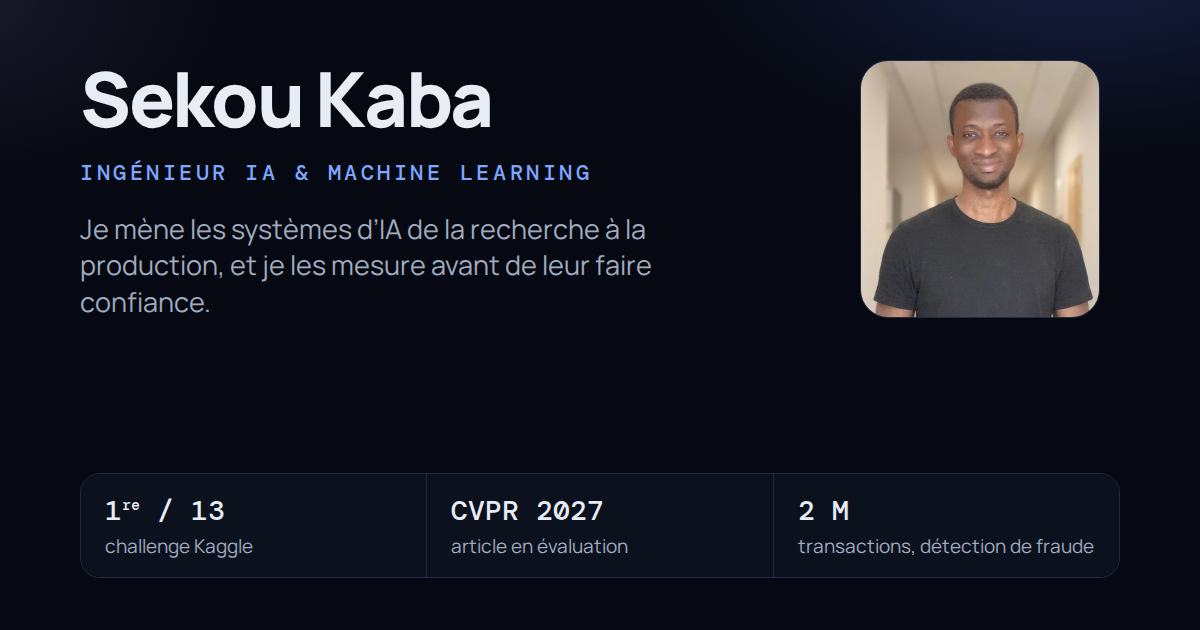
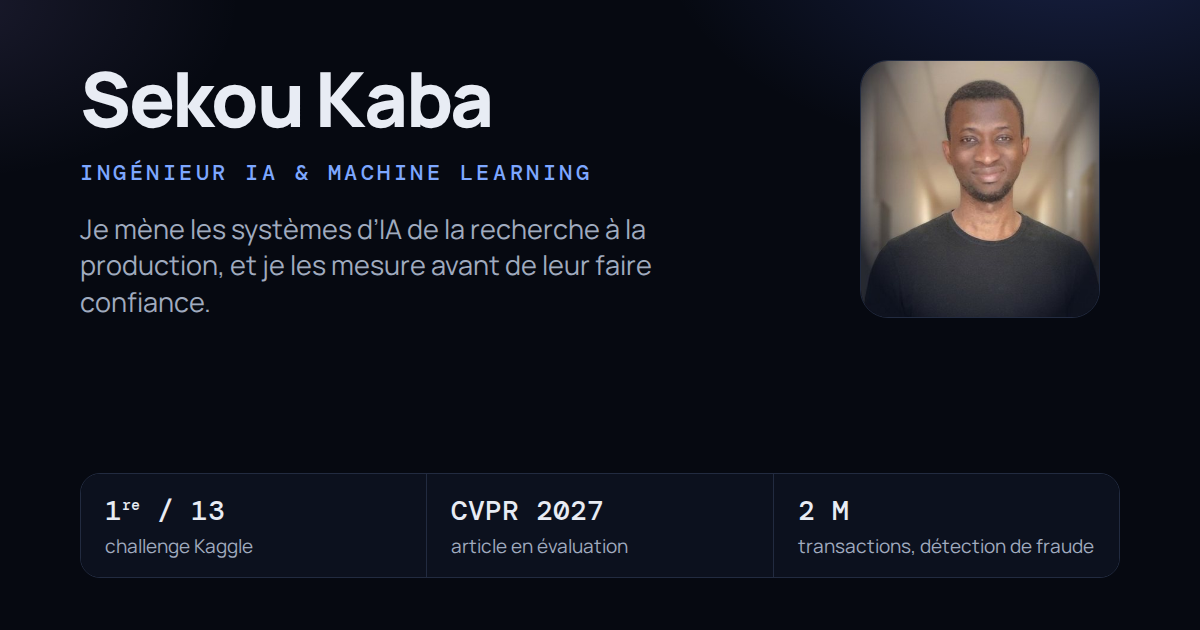
Portrait framing, Spark in skills, typography fixes, no-JS fallback on /

Changed region(s): [[0.7092, 0.0905, 0.925, 0.5127]]

diff --git a/src/pages/Home.tsx b/src/pages/Home.tsx
@@ -52,16 +52,16 @@ function Hero({ lang }: { lang: Lang }) {
         </div>
         <div className="mx-auto w-56 sm:w-64 lg:w-72">
           <picture>
-            <source srcSet="/portrait/sekou-kaba-sm.avif 400w, /portrait/sekou-kaba-lg.avif 641w" type="image/avif" sizes="(min-width: 1024px) 18rem, 16rem" />
-            <source srcSet="/portrait/sekou-kaba-sm.webp 400w, /portrait/sekou-kaba-lg.webp 641w" type="image/webp" sizes="(min-width: 1024px) 18rem, 16rem" />
+            <source srcSet="/portrait/sekou-kaba-sm.avif 400w, /portrait/sekou-kaba-lg.avif 561w" type="image/avif" sizes="(min-width: 1024px) 18rem, 16rem" />
+            <source srcSet="/portrait/sekou-kaba-sm.webp 400w, /portrait/sekou-kaba-lg.webp 561w" type="image/webp" sizes="(min-width: 1024px) 18rem, 16rem" />
             <img
               src="/portrait/sekou-kaba-lg.jpg"
-              width={641}
-              height={690}
+              width={561}
+              height={630}
               alt={d.a11y.portraitAlt}
               fetchPriority="high"
               decoding="async"
-              className="aspect-[641/690] w-full rounded-3xl border border-line object-cover shadow-2xl shadow-black/20"
+              className="aspect-[561/630] w-full rounded-3xl border border-line object-cover shadow-2xl shadow-black/20"
             />
           </picture>
         </div>
@@ -150,7 +150,7 @@ function ExperienceSection({ lang }: { lang: Lang }) {
             <span className="absolute -left-[29px] top-2 h-2.5 w-2.5 rounded-full border-2 border-bg bg-accent sm:-left-[45px]" aria-hidden="true" />
             <div className="flex flex-wrap items-baseline justify-between gap-x-4 gap-y-1">
               <h3 className="text-xl font-bold">{typeset(x.org[lang], lang)}</h3>
-              <p className="font-mono text-xs text-faint">{x.place[lang]}</p>
+              <p className="font-mono text-xs text-faint">{typeset(x.place[lang], lang)}</p>
             </div>
             {x.roles.map((r) => (
               <div key={r.start} className="mt-5">
@@ -262,7 +262,7 @@ function EducationAndAbout({ lang }: { lang: Lang }) {
                 <p className="text-muted">{typeset(e.degree[lang], lang)}</p>
               </div>
               <p className="shrink-0 text-sm text-faint">
-                {e.place[lang]} · <span className="metric">{formatRange(e.start, e.end, lang, e.endMonth)}</span>
+                {typeset(e.place[lang], lang)} · <span className="metric">{formatRange(e.start, e.end, lang, e.endMonth)}</span>
               </p>
             </li>
           ))}

diff --git a/src/content/projects.ts b/src/content/projects.ts
@@ -516,7 +516,7 @@ export const projects: Project[] = [
     title: { en: 'Product categorisation', fr: 'Catégorisation de produits' },
     line: {
       en: '100 categories in a 184-node taxonomy, with confidence routing to a human. The cheap model won.',
-      fr: 'Cent catégories dans une taxonomie de 184 nœuds, avec routage vers un humain selon la confiance. Le modèle le plus simple a gagné.',
+      fr: '100 catégories dans une taxonomie de 184 nœuds, avec routage vers un humain selon la confiance. Le modèle le plus simple a gagné.',
     },
     headline: { value: 82, digits: 0, suffix: ' %', label: { en: 'of products auto-categorised at 94.6 % accuracy', fr: 'des produits classés automatiquement à 94,6 % d’exactitude' } },
     headlineNote: { en: 'TF-IDF beat fine-tuned XLM-R', fr: 'TF-IDF devant XLM-R fine-tuné' },

diff --git a/src/lib/i18n.ts b/src/lib/i18n.ts
@@ -30,7 +30,7 @@ export function equivalentPath(pathname: string, to: Lang): string {
 export const other = (lang: Lang): Lang => (lang === 'en' ? 'fr' : 'en')
 
 export const pick = <T,>(bi: Bi<T>, lang: Lang): T => bi[lang]
-export const term = (t: Term, lang: Lang): string => (typeof t === 'string' ? t : t[lang])
+export const term = (t: Term, lang: Lang): string => typeset(typeof t === 'string' ? t : t[lang], lang)
 
 /** Numbers through Intl: decimal comma and narrow no-break thousands separator in French. */
 export function formatNumber(value: number, digits: number, lang: Lang): string {

diff --git a/src/content/career.ts b/src/content/career.ts
@@ -216,8 +216,7 @@ export const skills: SkillGroup[] = [
   },
   {
     title: { en: 'Data Engineering', fr: 'Data engineering' },
-    items: ['Databricks', 'Kafka', 'CDC (Debezium)', 'Airflow', 'PostgreSQL', 'Redis', 'ETL / ELT', 'SQL', 'Pandas', 'Polars'],
-    inTraining: ['Spark'],
+    items: ['Databricks', 'Spark (PySpark, Spark SQL)', 'Kafka', 'CDC (Debezium)', 'Airflow', 'PostgreSQL', 'Redis', 'ETL / ELT', 'SQL', 'Pandas', 'Polars'],
   },
   {
     title: { en: 'MLOps & DevOps', fr: 'MLOps & DevOps' },

diff --git a/CONTENT_SOURCES.md b/CONTENT_SOURCES.md
@@ -41,7 +41,7 @@ The English and French texts state the same facts; each row covers both.
 | École Centrale de Lille, MSc Data Science & AI, taught in English, 2024 – Oct 2026 | CV education l.3 |
 | École Centrale Casablanca, engineering degree, AI, double degree, 2021 – Oct 2026 | CV education l.4 |
 | INP-HB, CPGE MPSI / MP, Yamoussoukro, 2019 – Jul 2021 | CV education l.5 |
-| Every skill, and the "Notions" / "In training" levels | CV skills l.4–10 |
+| Every skill, and the "Notions" / "In training" levels | CV skills l.4–10 (Spark: used with PySpark and Spark SQL on Databricks, confirmed by Sekou on 2026-11-24) |
 | Languages | CV skills l.13 |
 
 ## About (`en.ts`, `fr.ts`)
